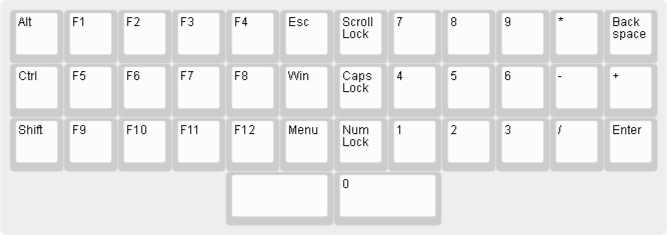
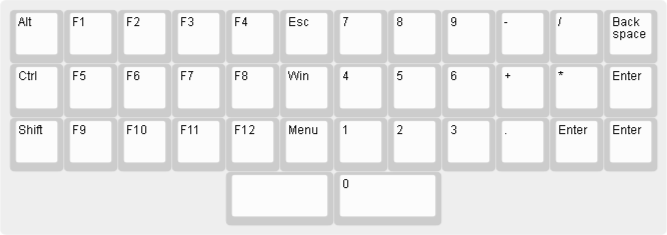
numpad moved

diff --git a/layers.md b/layers.md
@@ -14,8 +14,8 @@ The [default prism layer definition](prism-default.json):
 # Raise
 
 The Raise layer introduces function keys F1 - F12,
-numbers arranged in a numpad style and six other
-of the missing keys: Scroll Lock, Caps Lock, Num Lock, Esc, Win and Menu.
+numbers arranged in a numpad style and three other
+of the missing keys: Esc, Win and Menu.
 
 The [raise prism layer definition](prism-raise.json):
 
